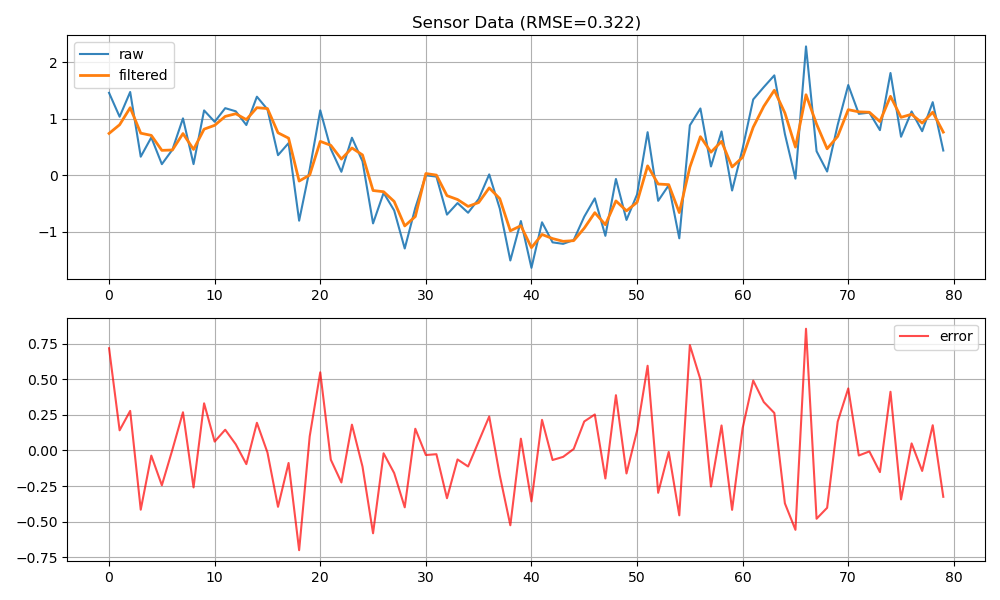
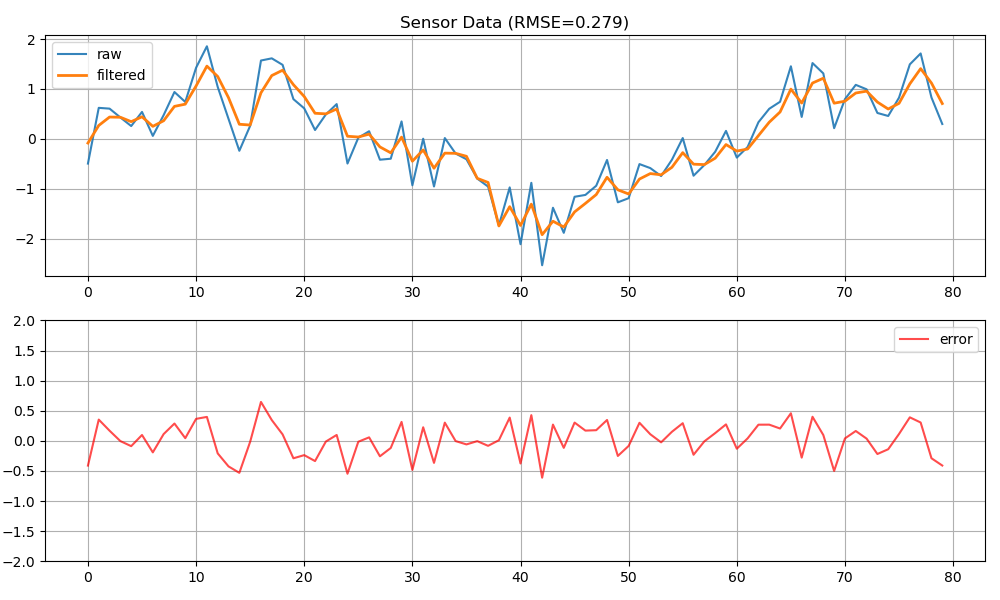
ErrorRange immobilization & Improving ReadMe readability

diff --git a/src/sensor_pipeline_py/sensor_pipeline_py/visualize_node.py b/src/sensor_pipeline_py/sensor_pipeline_py/visualize_node.py
@@ -109,6 +109,7 @@ class VisualizeNode(Node):
             # フィルタリングによる誤差を描画
             plt.subplot(2, 1, 2)
             plt.plot(x, error, color="red",  alpha=0.7, label="error")
+            plt.ylim(-2.0, 2.0)
             plt.legend()
             plt.grid()
 

diff --git a/README.md b/README.md
@@ -1,6 +1,6 @@
 # ROS2 Sensor Pipeline
 
-ROS2を用いて疑似センサーデータ生成・フィルタリング・可視化・評価までを行うパイプラインを構築しました。
+ROS2を用いて疑似センサーデータ生成・フィルタリング・グラフ生成までを行うパイプラインを構築しました。
 
 
 ## ■ 概要
@@ -36,11 +36,11 @@ ros2-sensor-pipeline/
 ```
 SensorNode (C++)
 ↓
-↓ 乱数ベースの疑似生データを通知
+↓ 乱数で生成した生データを通知
 ↓
 FilterNode (C++)
 ↓
-↓ EMAフィルタでフィルタリングしたデータを通知
+↓ EMAでフィルタリングしたデータを通知
 ↓
 VisualizeNode (Python)
 ↓
@@ -113,28 +113,24 @@ TAUS = [0.03, 0.05, 0.08, 0.1, 0.15, 0.2, 0.3]
 
 ### ■ 出力結果  
 - 時系列グラフ  
-- raw（センサ値）  
-- filtered（フィルタ後）  
-- error（raw - filtered）  # 誤差算出
+- raw（生センサデータ値）  
+- filtered（フィルター後のセンサーデータ値）  
+- error（raw - filtered = 誤差）  
 
-評価グラフ  
-```
-data/rmse_vs_tau.png  
-```
-👉 tauごとのRMSEを比較します
+### 最小tau（0.03の例）
+![small](data/result_tau_0.03.png)
+
+### 中間tau（0.1の例）
+![tau0.1](data/result_tau_0.1.png)
+
+### 最大tau（0.3の例）
+![large](data/result_tau_0.3.png)
 
 ### ■ 結果と考察  
 - 小さいtau  
 → 生のセンサーデータに近いまま通知する  
 - 大きいtau  
-→ より強いフィルターがかかる
-
-### 時系列グラフ（tau 0.1の例）
-![tau0.1](data/result_tau_0.1.png)
-
-### 比較例（tau 0.03と0.3の比較）
-![small](data/result_tau_0.03.png)
-![large](data/result_tau_0.3.png)
+→ より強いフィルターがかかる  
 
 ### ■ 工夫した点  
 - パラメータスイープの自動化（sweep_tau.py）  
